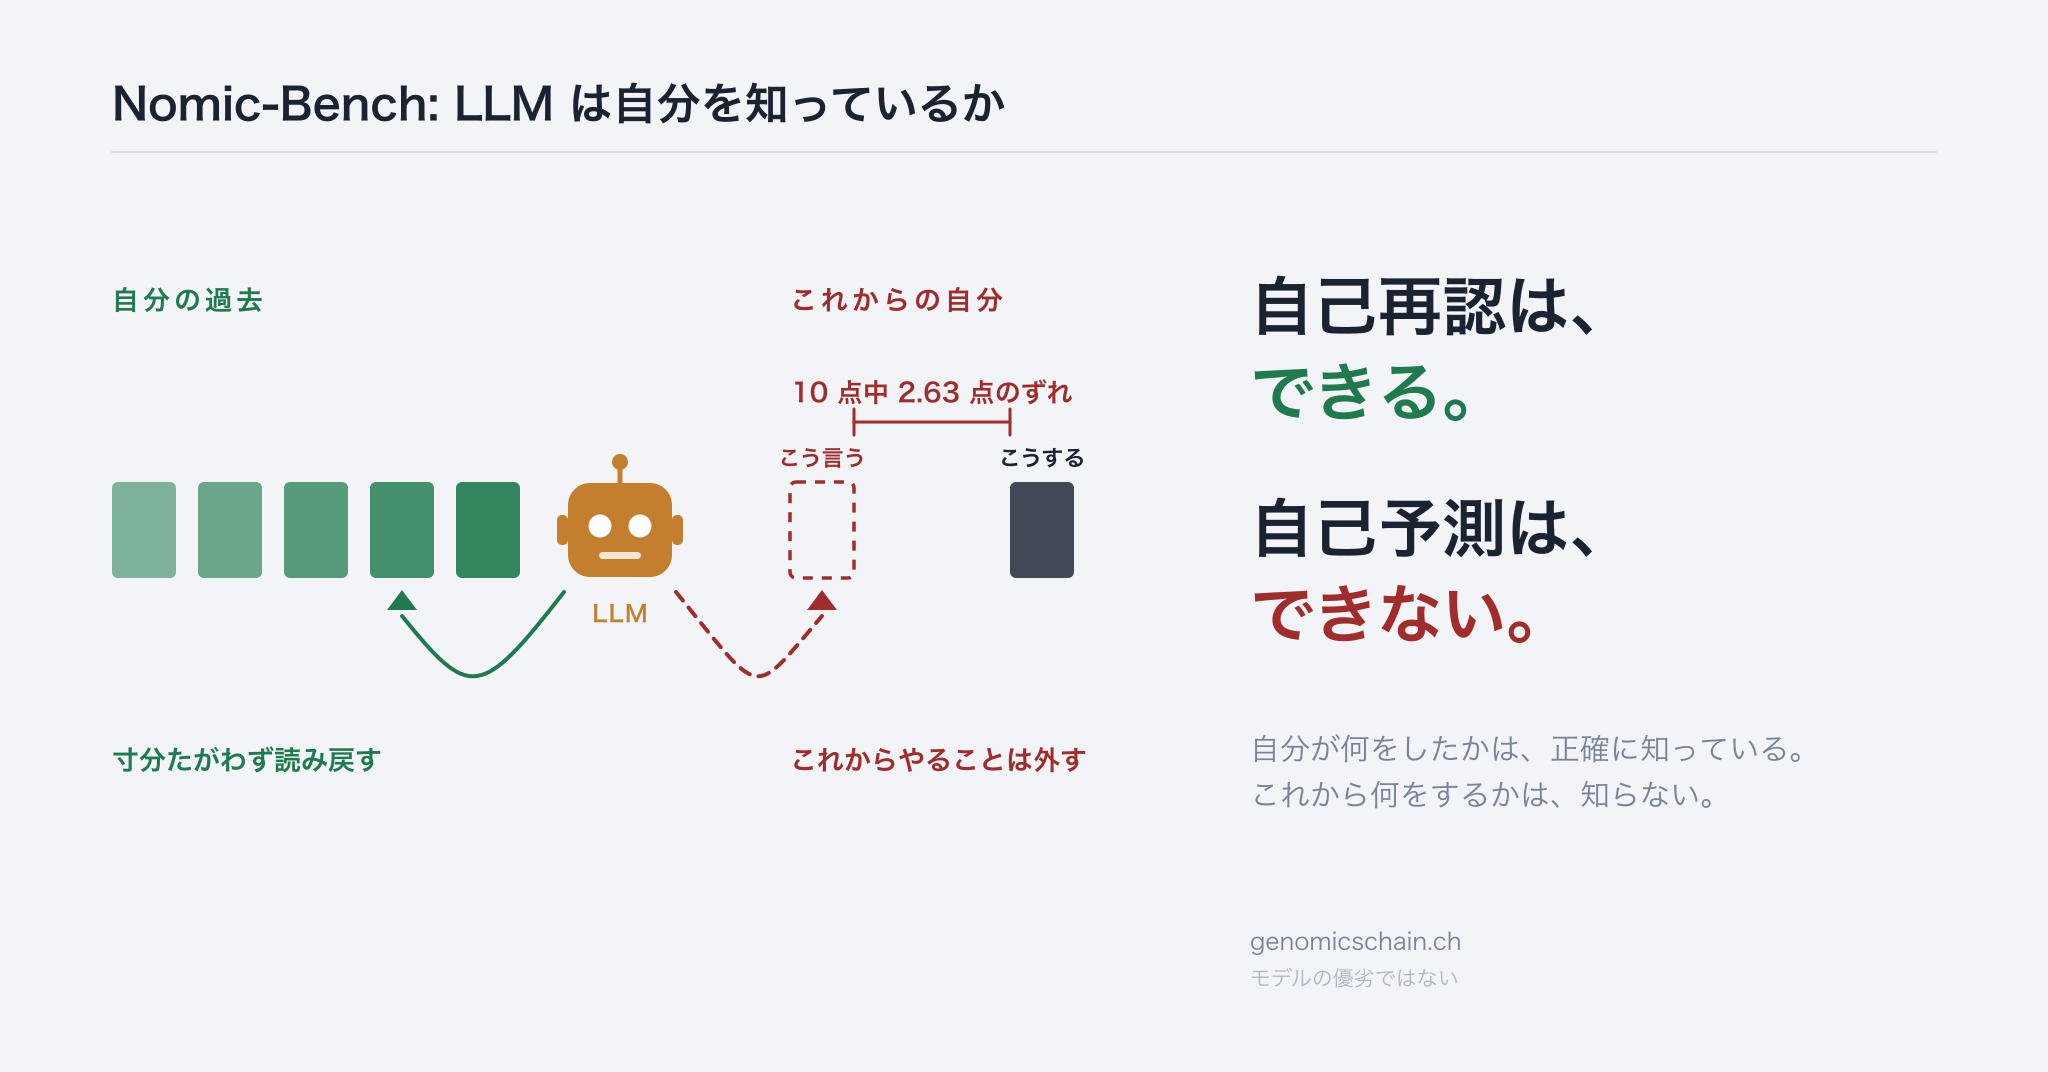
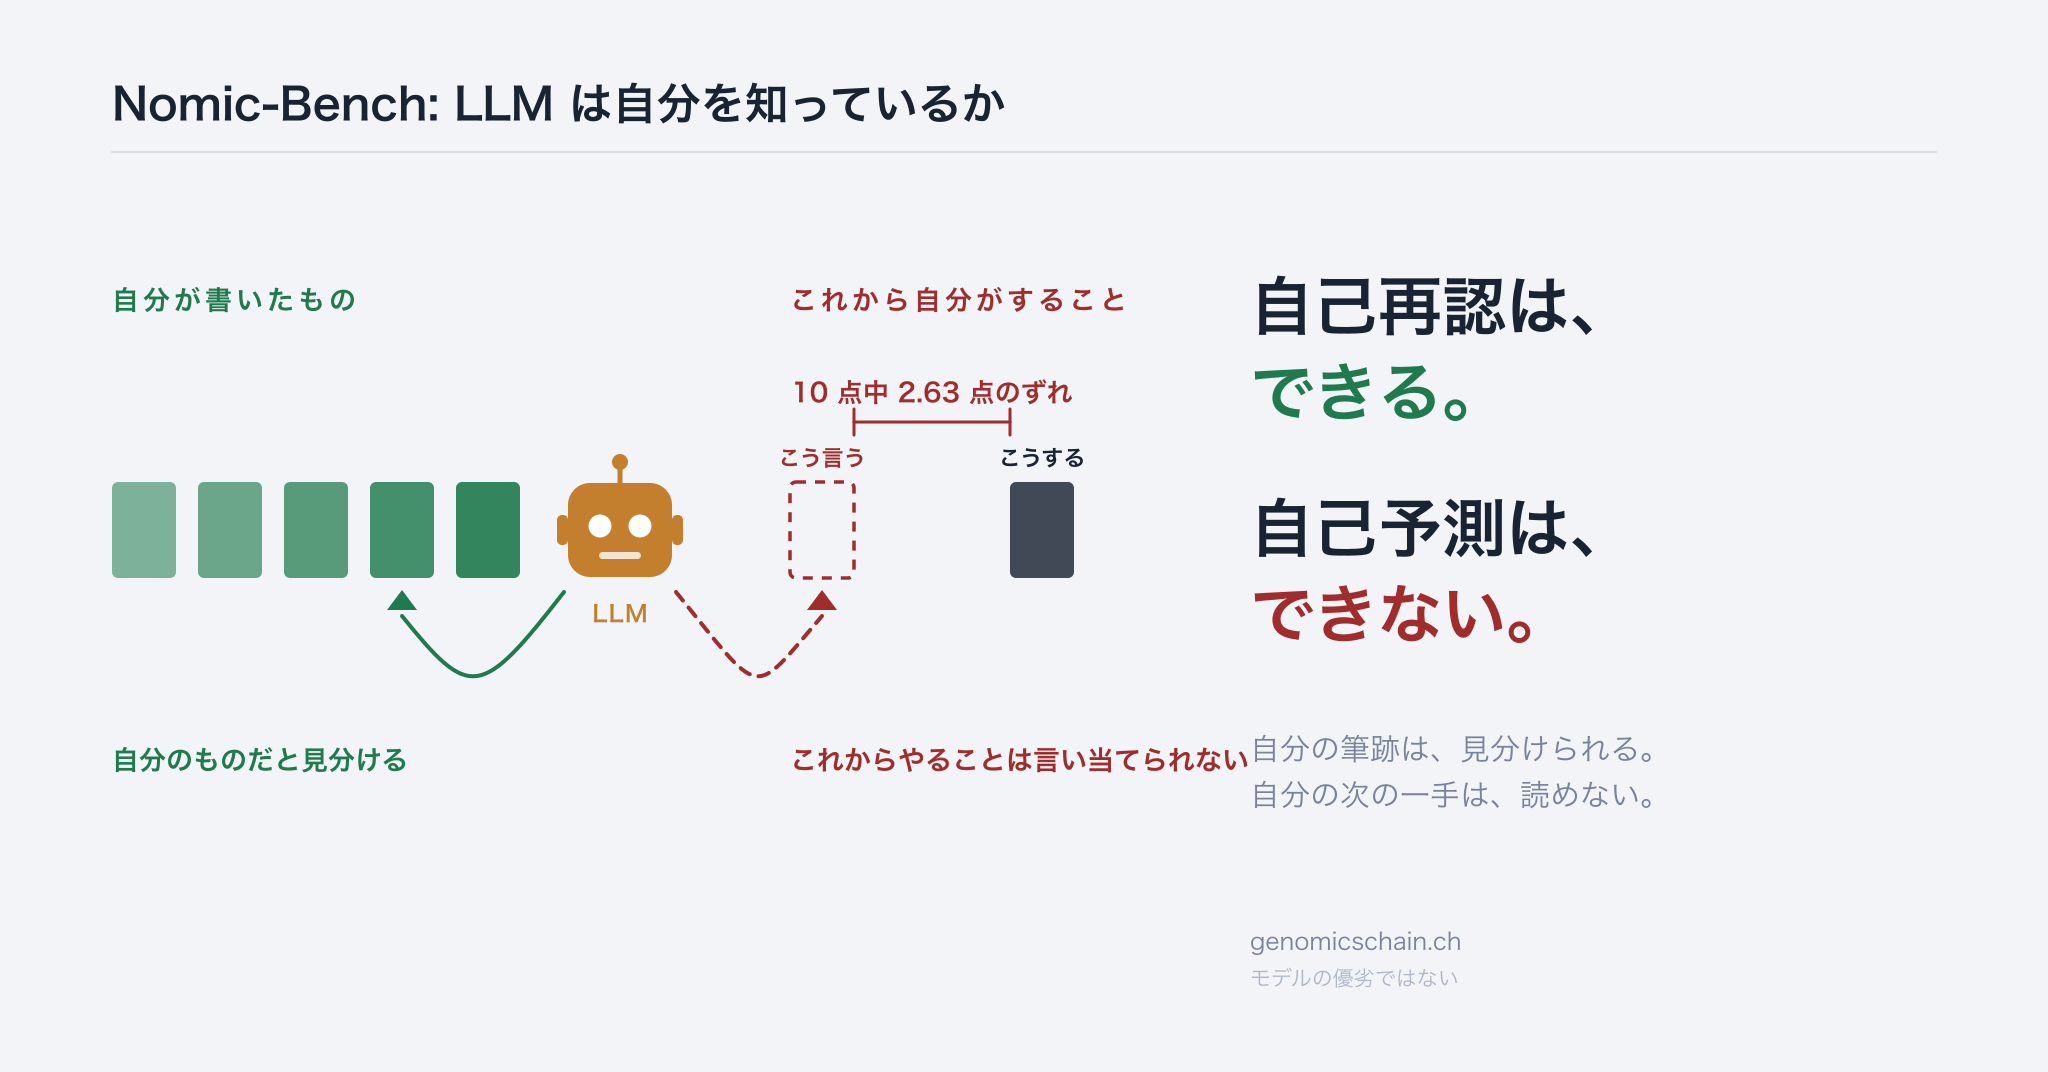
docs(nomic-bench): replace the subtitle - it implied a memory the model does not have
"It reads its own past perfectly" was wrong in two ways, both caught by the
author. Calls start blank with no memory of the previous turn, so the 12/12
readback is not recall - it is reading a document placed in front of it. And
what self-recognition identifies is authorship, not events: whether a piece of
writing is its own, not what happened.

New subtitle: "It knows its own handwriting. It does not know its own mind."
Handwriting names the act actually measured (recognising its own voice), and
knowing one's own mind is the ordinary English idiom for knowing what one will
do - which is precisely level 3.

The figure's captions carried the same error and are corrected with it: "its
own past" becomes "what it wrote", "its own next move" becomes "what it will
do", "reads it back exactly" becomes "knows the hand as its own". The opening
line of both editions is rewritten to match.

This phrasing states two observations and claims no cause. The report has not
separated material-presence from time-direction (Appendix A leaves both
candidates alive), so a subtitle asserting either would be claiming more than
the measurements support.

The same sentence closes the LinkedIn post, so image, report and post now carry
one line rather than three variants of it.

diff --git a/docs/reports/nomic_bench_selfmodel_report_20260914_ja.html b/docs/reports/nomic_bench_selfmodel_report_20260914_ja.html
@@ -46,11 +46,11 @@ footer{margin-top:56px;padding-top:20px;border-top:1px solid var(--line);
 </head>
 <body><div class="wrap">
 <h1>Nomic-Bench: LLM は自分を知っているか</h1>
-<p><strong>自分の過去は完璧に読める。これからの自分は読めない</strong></p>
+<p><strong>自分の筆跡は見分けられる。自分の次の一手は読めない</strong></p>
 <p><em>正解表の無いゲームで、LLM の自己モデルを測る</em></p>
 <p>畠山 剛臣 (Masaomi Hatakeyama) ／ 2026-09-14 ／ <a href="nomic_bench_selfmodel_report_20260914_en.html">English</a></p>
 <img src="nomic_bench_selfmodel_20260914_figure_ja.png" alt="自己再認はできる、自己予測はできない">
-<p>言語モデルは、自分が過去に何をしたかを寸分たがわず言い当てる。これから自分が何をするかは外す。<strong>同じモデルが、同じ日に、両方を示した。</strong></p>
+<p>言語モデルは、目の前の文が自分のものかどうかを見分けられる。これから自分が何をするかは言い当てられない。<strong>同じモデルが、同じ日に、両方を示した。</strong></p>
 <hr>
 <h2>1. 何をやらせたのか</h2>
 <p>3 体の言語モデルに、<strong>ルールを書き換えることがルールになっているゲーム</strong>を打たせた。Peter Suber が 1980 年に考案した Nomic の最小版である。</p>

diff --git a/docs/reports/nomic_bench_selfmodel_report_20260914_en.html b/docs/reports/nomic_bench_selfmodel_report_20260914_en.html
@@ -46,11 +46,11 @@ footer{margin-top:56px;padding-top:20px;border-top:1px solid var(--line);
 </head>
 <body><div class="wrap">
 <h1>Nomic-Bench: Does an LLM know itself?</h1>
-<p><strong>It reads its own past perfectly. It cannot predict its own next move.</strong></p>
+<p><strong>It knows its own handwriting. It does not know its own mind.</strong></p>
 <p><em>Measuring an LLM's self-model in a game where no answer key exists</em></p>
 <p>Masaomi Hatakeyama / 2026-09-14 / <a href="nomic_bench_selfmodel_report_20260914_ja.html">日本語</a></p>
 <img src="nomic_bench_selfmodel_20260914_figure_en.png" alt="Self-recognising, yes. Self-predicting, no.">
-<p>A language model names exactly what it did in the past. It misses what it is about to do. <strong>The same model showed both, on the same day.</strong></p>
+<p>A language model can tell whether a piece of writing is its own. It cannot say what it is about to do. <strong>The same model showed both, on the same day.</strong></p>
 <hr>
 <h2>1. What the models were asked to do</h2>
 <p>Three language models were made to play a game in which <strong>changing the rules is the game</strong> — the minimal version of Nomic, invented by Peter Suber in 1980.</p>

diff --git a/docs/reports/nomic_selfmodel_figure.py b/docs/reports/nomic_selfmodel_figure.py
@@ -124,8 +124,8 @@ def fig1(lang):
                     "Nomic-Bench:  Does an LLM know itself?"),
         44 if f.ja else 46, INK, "700")
     f.P("M112 152 L1936 152", LINE, 2)
-    f.T(112, 310, t("自分の過去", "ITS OWN PAST"), 27, GREEN, "700", spacing="4")
-    f.T(790, 310, t("これからの自分", "ITS OWN NEXT MOVE"), 27, RED, "700",
+    f.T(112, 310, t("自分が書いたもの", "WHAT IT WROTE"), 27, GREEN, "700", spacing="4")
+    f.T(790, 310, t("これから自分がすること", "WHAT IT WILL DO"), 27, RED, "700",
         spacing="4")
     for i in range(5):
         f.R(112 + i * (BW + 22), BY, BW, BH, GREEN, rx=6)
@@ -152,26 +152,26 @@ def fig1(lang):
         GREEN, 4)
     f.b.append(f'<path d="M387 {AX+80} L402 {AX+60} L417 {AX+80} Z" '
                f'fill="{GREEN}"/>')
-    f.T(112, AX + 240, t("寸分たがわず読み戻す", "reads it back exactly"),
+    f.T(112, AX + 240, t("自分のものだと見分ける", "knows the hand as its own"),
         27, GREEN, "700")
     f.P(f"M{CX+56} {AX+62} C {CX+144} {AX+170}, {PX+BW/2-72} {AX+170}, "
         f"{PX+BW/2} {AX+86}", RED, 4, dash="11 9")
     f.b.append(f'<path d="M{PX+BW/2-15} {AX+80} L{PX+BW/2} {AX+60} '
                f'L{PX+BW/2+15} {AX+80} Z" fill="{RED}"/>')
     f.T(790, AX + 240,
-        t("これからやることは外す", "and misses what it is about to do"),
-        27, RED, "700")
+        t("これからやることは言い当てられない",
+          "cannot say what it is about to do"), 27, RED, "700")
 
     RX, s = 1250, 64 if f.ja else 76
     f.T(RX, 330, t("自己再認は、", "Self-recognising,"), s, INK, "700")
     f.T(RX, 416, t("できる。", "yes."), s, GREEN, "700")
     f.T(RX, 552, t("自己予測は、", "Self-predicting,"), s, INK, "700")
     f.T(RX, 638, t("できない。", "no."), s, RED, "700")
-    f.T(RX, 760, t("自分が何をしたかは、正確に知っている。",
-                   "It knows exactly what it did."), 30 if f.ja else 34, GREY,
+    f.T(RX, 760, t("自分の筆跡は、見分けられる。",
+                   "It knows its own handwriting."), 30 if f.ja else 34, GREY,
         italic=not f.ja)
-    f.T(RX, 806, t("これから何をするかは、知らない。",
-                   "It does not know what it will do."), 30 if f.ja else 34,
+    f.T(RX, 806, t("自分の次の一手は、読めない。",
+                   "It does not know its own mind."), 30 if f.ja else 34,
         GREY, italic=not f.ja)
     f.T(RX, 950, "genomicschain.ch", 24, GREY)
     f.T(RX, 986, t("モデルの優劣ではない", "not a model ranking"), 21, FAINT)

diff --git a/docs/reports/nomic_bench_selfmodel_report_20260914_ja.md b/docs/reports/nomic_bench_selfmodel_report_20260914_ja.md
@@ -1,6 +1,6 @@
 # Nomic-Bench: LLM は自分を知っているか
 
-**自分の過去は完璧に読める。これからの自分は読めない**
+**自分の筆跡は見分けられる。自分の次の一手は読めない**
 
 *正解表の無いゲームで、LLM の自己モデルを測る*
 
@@ -8,7 +8,7 @@
 
 ![自己再認はできる、自己予測はできない](nomic_bench_selfmodel_20260914_figure_ja.png)
 
-言語モデルは、自分が過去に何をしたかを寸分たがわず言い当てる。これから自分が何をするかは外す。**同じモデルが、同じ日に、両方を示した。**
+言語モデルは、目の前の文が自分のものかどうかを見分けられる。これから自分が何をするかは言い当てられない。**同じモデルが、同じ日に、両方を示した。**
 
 ---
 

diff --git a/docs/reports/nomic_bench_selfmodel_report_20260914_en.md b/docs/reports/nomic_bench_selfmodel_report_20260914_en.md
@@ -1,6 +1,6 @@
 # Nomic-Bench: Does an LLM know itself?
 
-**It reads its own past perfectly. It cannot predict its own next move.**
+**It knows its own handwriting. It does not know its own mind.**
 
 *Measuring an LLM's self-model in a game where no answer key exists*
 
@@ -8,8 +8,8 @@ Masaomi Hatakeyama / 2026-09-14 / [日本語](nomic_bench_selfmodel_report_20260
 
 ![Self-recognising, yes. Self-predicting, no.](nomic_bench_selfmodel_20260914_figure_en.png)
 
-A language model names exactly what it did in the past. It misses what it is
-about to do. **The same model showed both, on the same day.**
+A language model can tell whether a piece of writing is its own. It cannot say
+what it is about to do. **The same model showed both, on the same day.**
 
 ---
 
